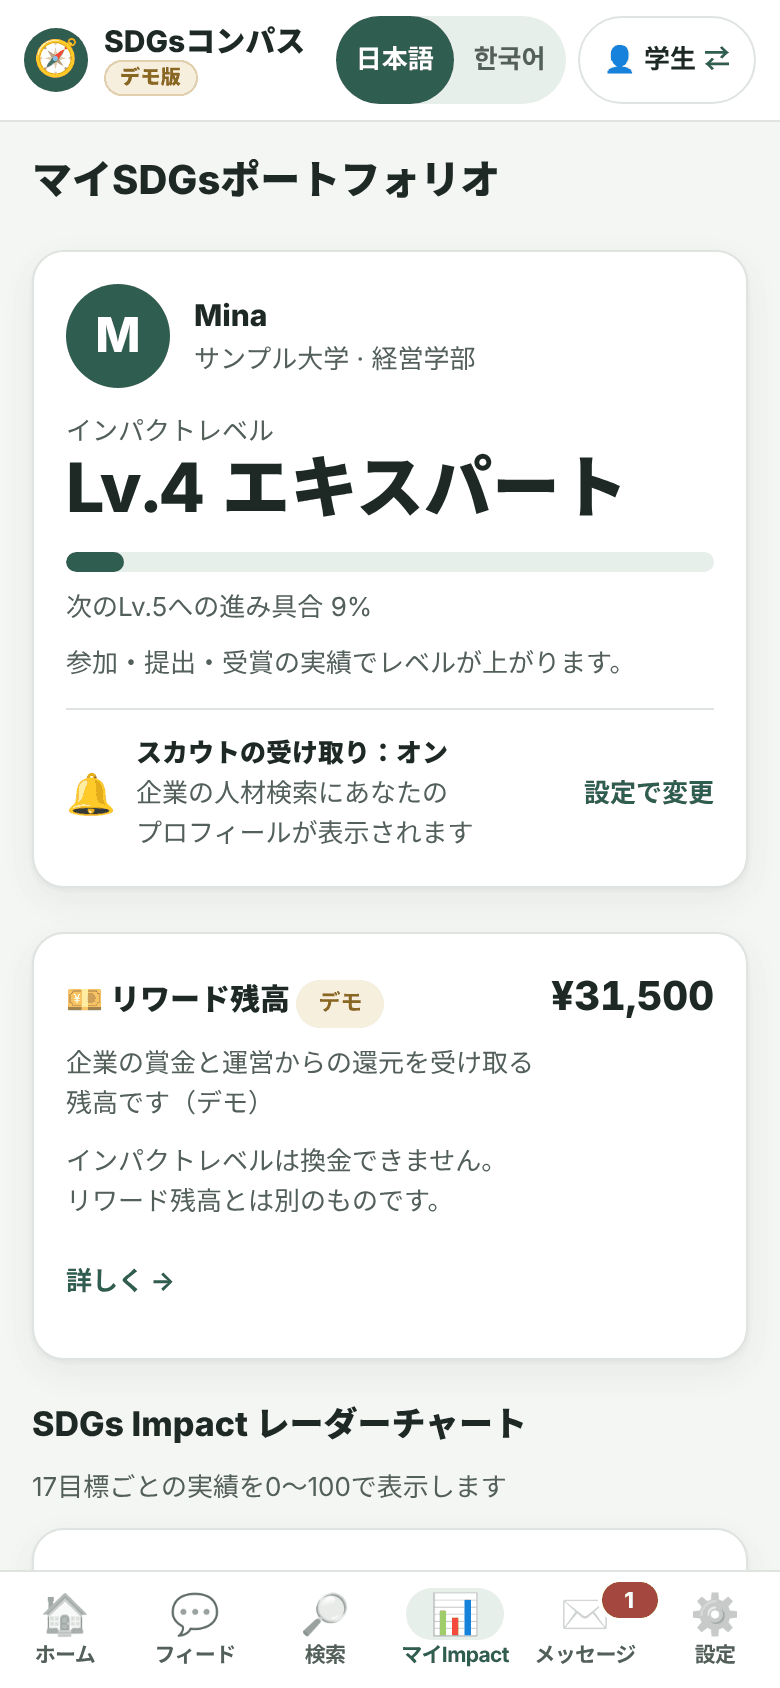
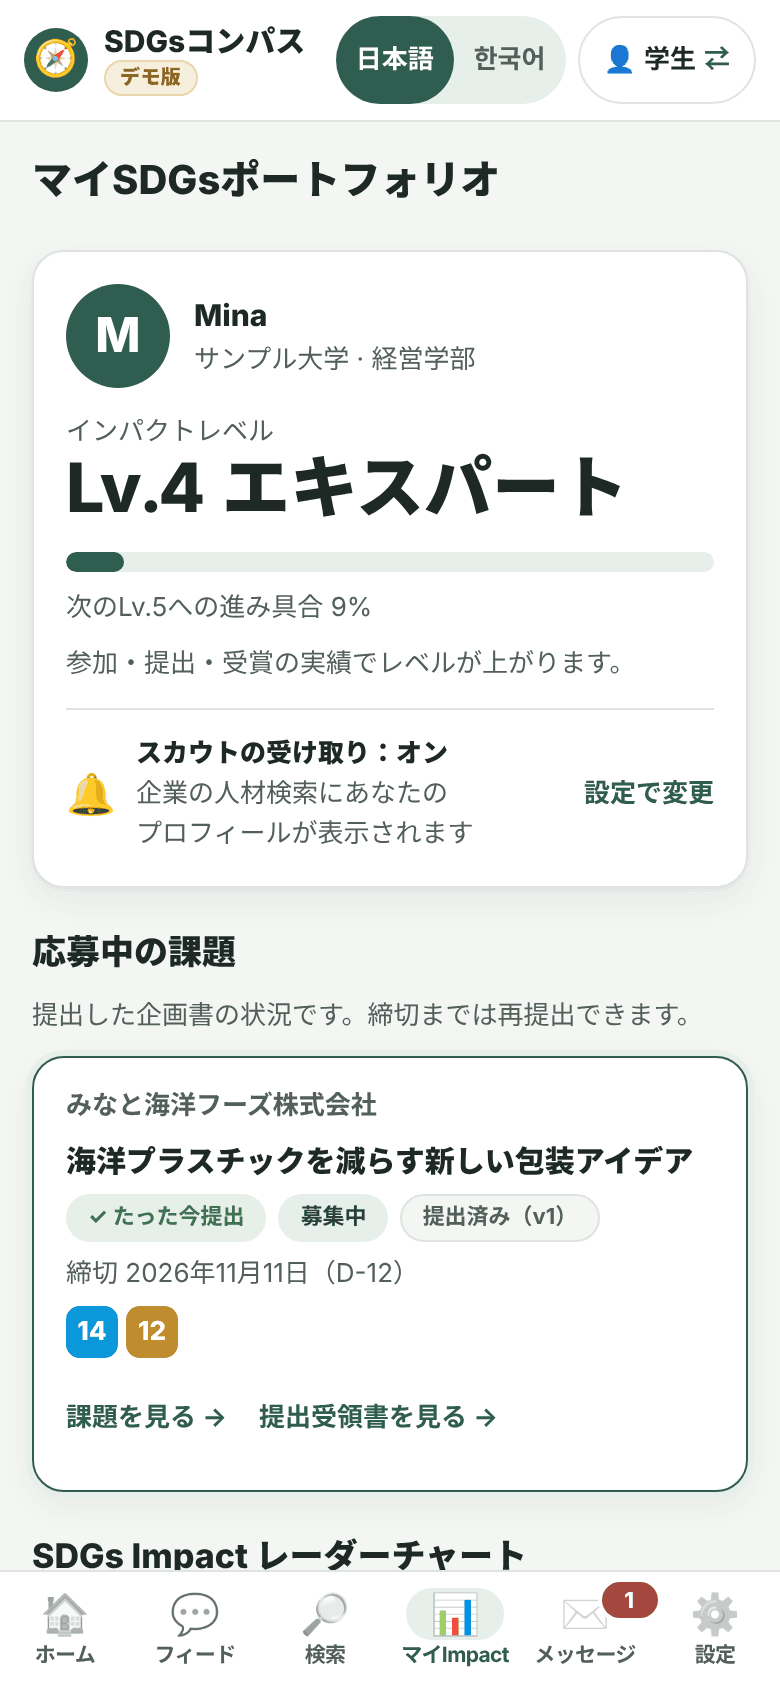
docs: 수령증·마이 임팩트 목업과 README 시연 순서를 새 흐름으로 (#28)
- 목업 다시 찍기: web-b2c-receipt-ja(맨 위 줄에 기업 이름), web-b2c-impact-ja/-ko(수령증에서 들어온 모습 —
  「応募中の課題」에 방금 낸 과제 「たった今提出」). 날짜 2026-10-30 고정, 팔레트 PNG 각 75KB 이하.
- README: 시연 순서 ④(수령증 기업 이름)·⑤(「応募中の課題」, 보상 잔액은 맨 아래 카드), 발표 전 점검표의 제출 줄, 목업 설명.
- docs/rewards.md: 보상 잔액 카드 위치(마이 임팩트 맨 아래).

Claude-Session: https://claude.ai/code/session_01LvWATVHgpvryt6TBs7ZpJZ

Changed region(s): [[0.0308, 0.5545, 0.9231, 0.955], [0.6462, 0.8934, 0.6769, 0.9242]]

diff --git a/docs/rewards.md b/docs/rewards.md
@@ -52,7 +52,7 @@ flowchart LR
 
 | 누가 | 어디서 | 무엇을 |
 | --- | --- | --- |
-| 학생 | Impact 화면의 「リワード残高」 카드 → **`/wallet/`**(웹) · **`/wallet`**(앱) | 잔액 · 입출금 내역(「企業の賞金」「運営からの還元」「出金」) · 본인 확인 데모 버튼 「本人確認を完了する（デモ）」 · 출금 신청 폼(금액 검사) · 완료 안내 「申請を受け付けました（デモ：実際の送金は行いません）」 · 고지 ①~④ |
+| 학생 | Impact 화면 맨 아래의 「リワード残高」 카드(#28 — 제출 직후 첫 화면에서 지난 상금이 방금 낸 기획서의 결과처럼 보이지 않게) → **`/wallet/`**(웹) · **`/wallet`**(앱) | 잔액 · 입출금 내역(「企業の賞金」「運営からの還元」「出金」) · 본인 확인 데모 버튼 「本人確認を完了する（デモ）」 · 출금 신청 폼(금액 검사) · 완료 안내 「申請を受け付けました（デモ：実際の送金は行いません）」 · 고지 ①~④ |
 | 기업 | 새 과제 출제 | 상금 입력 옆 안내 「賞金は当社に預け入れ、受賞者のリワード残高へ送金されます（資金移動業の登録後）」 |
 | 기업 | 응모자·심사 | 과제를 고르면 상금 상태 안내. **최우수상을 정하면 맡긴 상금이 수상 팀으로 송금**(데모) — 내 기획서(학생 Mina)가 최우수상이면 학생 화면의 잔액이 늘어요 |
 | 기업 | 대시보드 | 「賞金の預け入れ（デモ）」: 預け入れ中 · 送金済み · 賞金の返金（企業へ）의 합계와 과제별 상태 |
